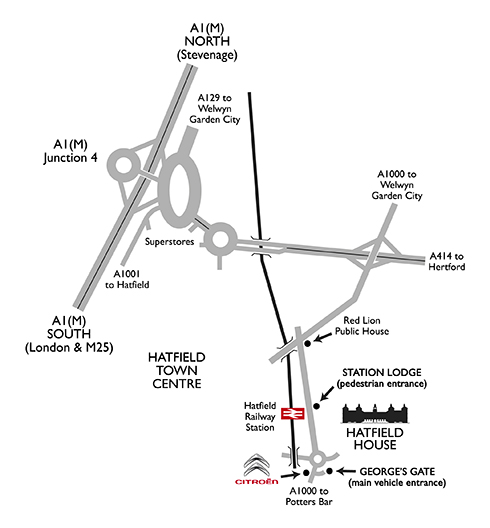
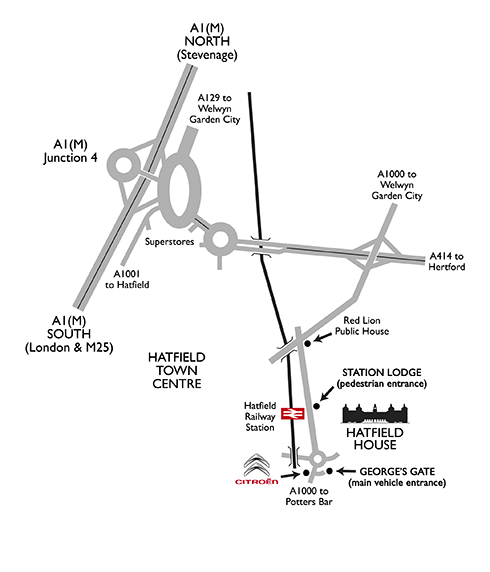
Increased size of map, and programatically move the scroll position to a nicer initial position

Changed region(s): [[0.0306, 0.0303, 0.949, 0.9697], [0.3061, 0.6061, 0.4286, 0.7576]]

diff --git a/Ed And Tara's Wedding/MapViewController.swift b/Ed And Tara's Wedding/MapViewController.swift
@@ -52,9 +52,16 @@ class MapViewController: UIViewController, UIScrollViewDelegate {
         containerView.addSubview(scrollView)
         
         imageView.frame = CGRectMake(0, 0, scrollView.contentSize.width, scrollView.contentSize.height)
+   
         scrollView.maximumZoomScale = 5.0
         scrollView.minimumZoomScale = 0.5
         scrollView.delegate = self
+        
+        
+        
+        let scrollPoint = CGPointMake(50, 0.0)
+        scrollView.setContentOffset(scrollPoint, animated: false)
+        
     }
  
     
